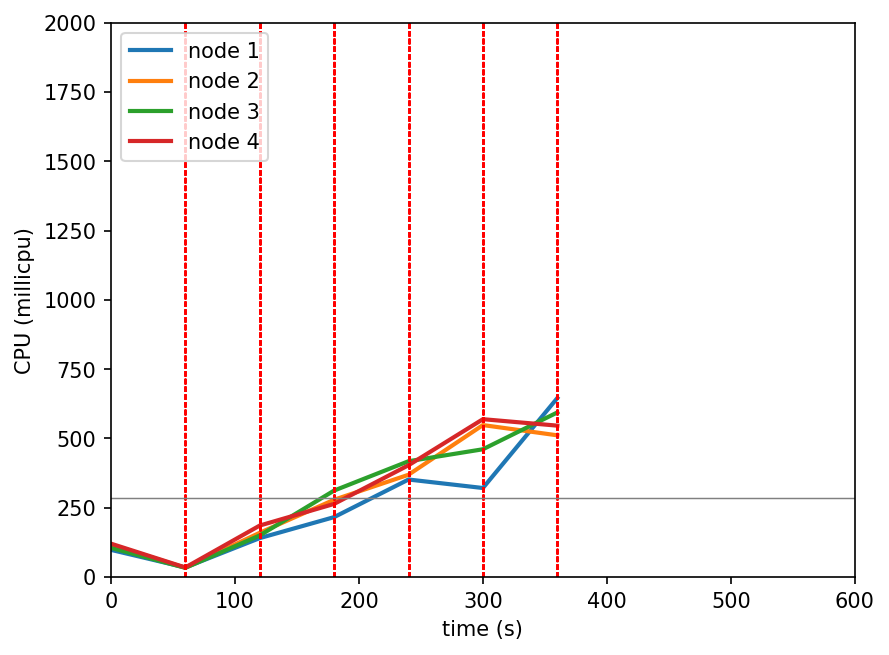
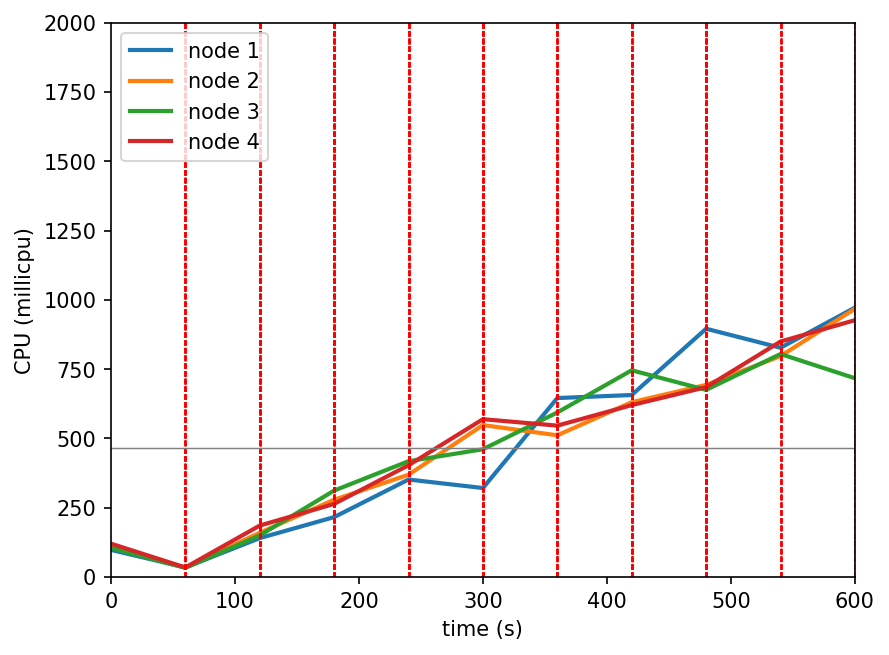
update

Changed region(s): [[0.1215, 0.458, 0.9719, 0.7023], [0.1215, 0.7328, 0.9719, 0.7634]]

diff --git a/results/summary_kse-GreedyLB_20_20_ramp_normal_cpu.html b/results/summary_kse-GreedyLB_20_20_ramp_normal_cpu.html
@@ -152,14 +152,14 @@
         <div class="box">
           <i class="fas fa-globe icon"></i>
           <h4>Total Requests</h4>
-          <div class="bignum">7750</div>
+          <div class="bignum">8641</div>
           
         </div>
         
           <div class="box failed">
             <i class="far fa-times-circle icon"></i>
             <h4>Failed Requests</h4>
-            <div class="bignum">147</div>
+            <div class="bignum">139</div>
           </div> 
              
         <div class="box good">
@@ -206,15 +206,15 @@
                     
                     
                     
-                      <td class="">210.44 ms</td>
+                      <td class="">144.59 ms</td>
                     
     
                     
-                      <td class="">1996.58 ms</td>
+                      <td class="">607.92 ms</td>
                       
     
                     
-                      <td class="">158.14 ms</td>
+                      <td class="">139.69 ms</td>
                       
                     
                     
@@ -222,11 +222,11 @@
                        
                                   
                     
-                      <td class="">379.01 ms</td>
+                      <td class="">185.24 ms</td>
                     
     
                     
-                      <td class="">481.30 ms</td>
+                      <td class="">213.49 ms</td>
                     
                   </tr>
                 
@@ -242,15 +242,15 @@
                     
                     
                     
-                      <td class="">210.33 ms</td>
+                      <td class="">144.47 ms</td>
                     
     
                     
-                      <td class="">1996.48 ms</td>
+                      <td class="">607.82 ms</td>
                       
     
                     
-                      <td class="">158.02 ms</td>
+                      <td class="">139.57 ms</td>
                       
                     
                     
@@ -258,11 +258,11 @@
                        
                                   
                     
-                      <td class="">378.81 ms</td>
+                      <td class="">185.11 ms</td>
                     
     
                     
-                      <td class="">481.19 ms</td>
+                      <td class="">213.41 ms</td>
                     
                   </tr>
                 
@@ -278,15 +278,15 @@
                     
                     
                     
-                      <td class="">2.06 ms</td>
+                      <td class="">1.09 ms</td>
                     
     
                     
-                      <td class="">3004.96 ms</td>
+                      <td class="">1001.61 ms</td>
                       
     
                     
-                      <td class="">1.33 ms</td>
+                      <td class="">1.28 ms</td>
                       
                     
                     
@@ -294,11 +294,11 @@
                        
                                   
                     
-                      <td class="">2.10 ms</td>
+                      <td class="">2.13 ms</td>
                     
     
                     
-                      <td class="">2.30 ms</td>
+                      <td class="">2.33 ms</td>
                     
                   </tr>
                 
@@ -354,7 +354,7 @@
                     
     
                     
-                      <td class="">1.64 ms</td>
+                      <td class="">8.93 ms</td>
                       
     
                     
@@ -366,11 +366,11 @@
                        
                                   
                     
-                      <td class="">0.10 ms</td>
+                      <td class="">0.11 ms</td>
                     
     
                     
-                      <td class="">0.11 ms</td>
+                      <td class="">0.13 ms</td>
                     
                   </tr>
                 
@@ -390,7 +390,7 @@
                     
     
                     
-                      <td class="">0.28 ms</td>
+                      <td class="">0.48 ms</td>
                       
     
                     
@@ -406,7 +406,7 @@
                     
     
                     
-                      <td class="">0.09 ms</td>
+                      <td class="">0.10 ms</td>
                     
                   </tr>
                 
@@ -422,15 +422,15 @@
                     
                     
                     
-                      <td class="">2.12 ms</td>
+                      <td class="">1.16 ms</td>
                     
     
                     
-                      <td class="">3005.15 ms</td>
+                      <td class="">1001.73 ms</td>
                       
     
                     
-                      <td class="">1.43 ms</td>
+                      <td class="">1.38 ms</td>
                       
                     
                     
@@ -438,11 +438,11 @@
                        
                                   
                     
-                      <td class="">2.20 ms</td>
+                      <td class="">2.24 ms</td>
                     
     
                     
-                      <td class="">2.42 ms</td>
+                      <td class="">2.45 ms</td>
                     
                   </tr>
                 
@@ -458,27 +458,27 @@
                     
                     
                     
-                      <td class="">736.59 ms</td>
+                      <td class="">660.44 ms</td>
                     
     
                     
-                      <td class="">30502.45 ms</td>
+                      <td class="">30501.89 ms</td>
                       
     
                     
-                      <td class="">660.36 ms</td>
+                      <td class="">641.50 ms</td>
                       
                     
                     
-                      <td class="">501.67 ms</td>
+                      <td class="">501.42 ms</td>
                        
                                   
                     
-                      <td class="">882.50 ms</td>
+                      <td class="">687.04 ms</td>
                     
     
                     
-                      <td class="">986.24 ms</td>
+                      <td class="">715.95 ms</td>
                     
                   </tr>
                 
@@ -497,8 +497,8 @@
               <div class="box info">
                 <h4>Iterations</h4>
                 <i class="fas fa-redo icon"></i>
-                <div class="row"><div>Total</div><div>7750</div></div>
-                <div class="row"><div>Rate</div><div>12.90/s</div></div>
+                <div class="row"><div>Total</div><div>8641</div></div>
+                <div class="row"><div>Rate</div><div>14.39/s</div></div>
               </div>
             
             <div class="box info">
@@ -512,19 +512,19 @@
             <div class="box info">
               <h4>Requests</h4>
               <i class="fas fa-globe icon"></i>
-              <div class="row"><div>Total</div><div>7750</div></div>
-              <div class="row"><div>Rate</div><div>12.90/s</div></div>
+              <div class="row"><div>Total</div><div>8641</div></div>
+              <div class="row"><div>Rate</div><div>14.39/s</div></div>
             </div>
             <div class="box info">
               <h4>Data Received</h4>
               <i class="fas fa-cloud-download-alt icon"></i>
-              <div class="row"><div>Total</div><div>1.42 MB</div></div>
+              <div class="row"><div>Total</div><div>1.58 MB</div></div>
               <div class="row"><div>Rate</div><div>0.00 mB/s</div></div>
             </div>
             <div class="box info">
               <h4>Data Sent</h4>
               <i class="fas fa-cloud-upload-alt icon"></i>
-              <div class="row"><div>Total</div><div>0.65 MB</div></div>
+              <div class="row"><div>Total</div><div>0.73 MB</div></div>
               <div class="row"><div>Rate</div><div>0.00 mB/s</div></div>
             </div>   
           </div>
